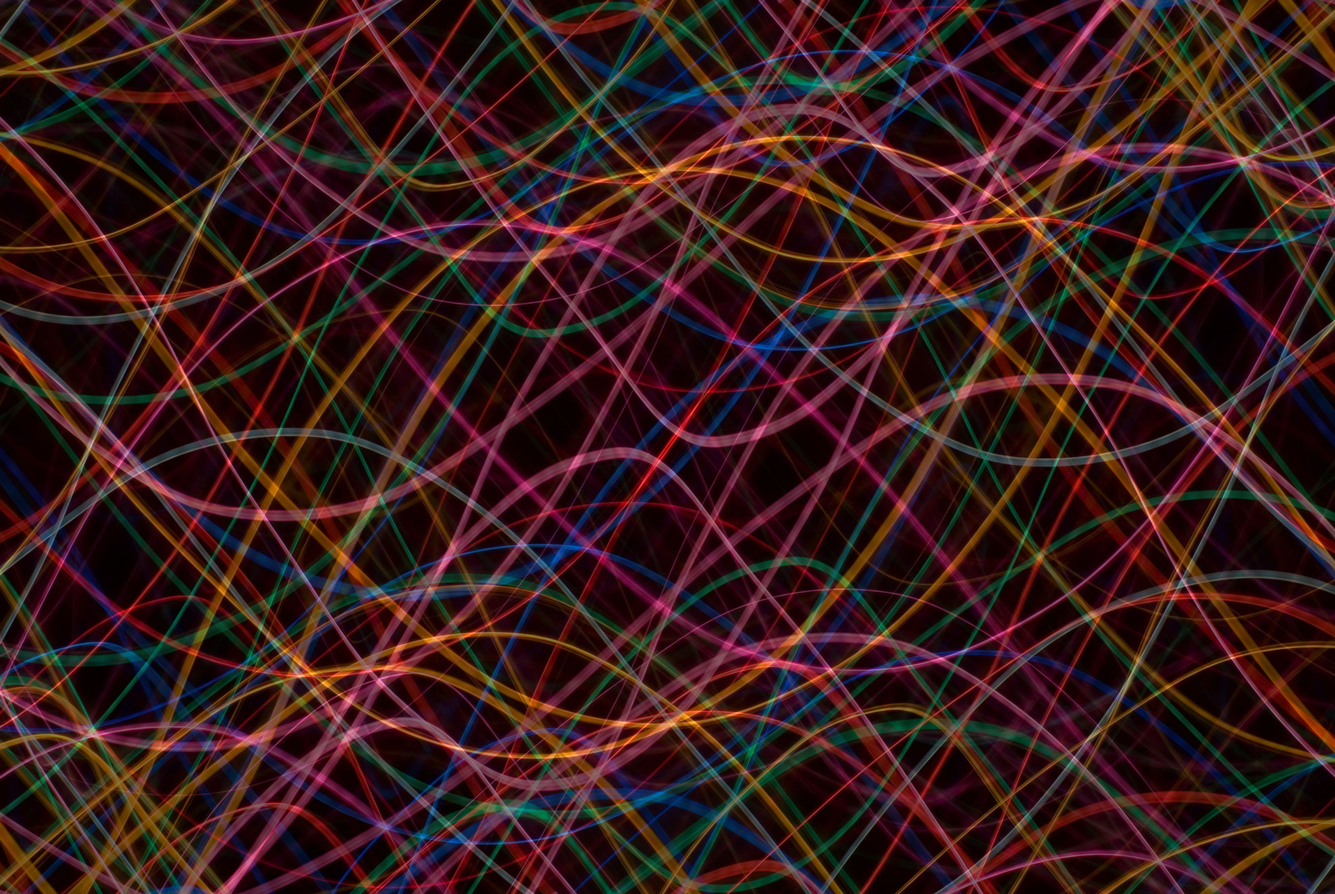
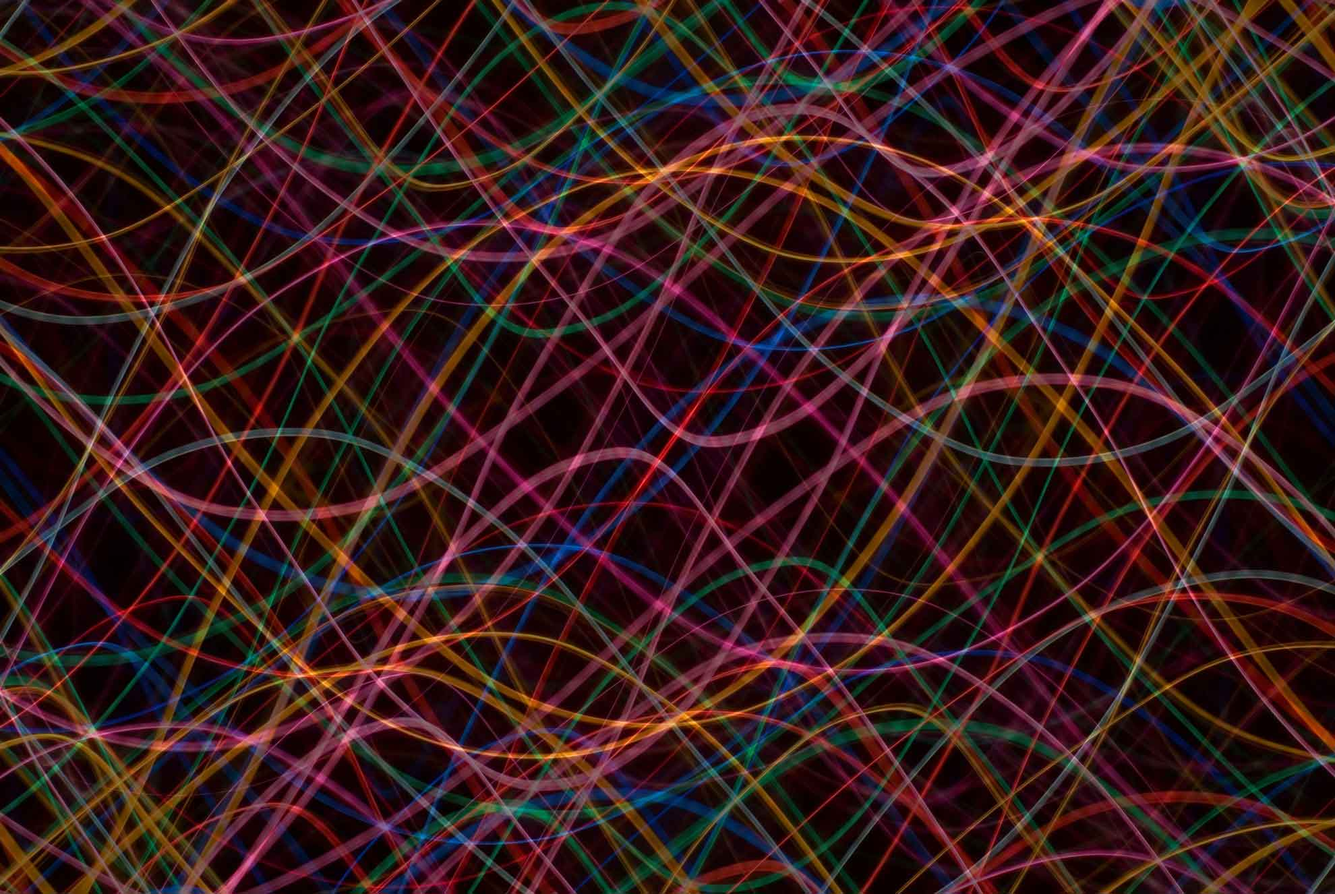
homepage done

diff --git a/src/app/home/home.component.css b/src/app/home/home.component.css
@@ -12,6 +12,18 @@ div {
   align-items: center;
 }
 
+.black {
+  background-color: black;
+  min-height: 100%;
+  min-width: 100%;
+  position: fixed;
+  top: 50%;
+  left: 50%;
+  transform: translate(-50%, -50%);
+  opacity: 0.5;
+  z-index: 0;
+}
+
 img {
   /* Set rules to fill background */
   min-height: 100%;
@@ -23,13 +35,19 @@ img {
   position: fixed;
   /* top: 0;
   left: 0; */
-  /* opacity */
-  opacity: 0.5;
-  z-index: 0;
-
   top: 50%;
   left: 50%;
   transform: translate(-50%, -50%);
+}
+.back {
+  /* opacity */
+  opacity: 0.5;
+  z-index: -3;
+}
+.front {
+  /* opacity */
+  opacity: 0.9;
+  z-index: -1;
 }
 
 h1 {
@@ -38,7 +56,7 @@ h1 {
   color: #aa000b;
   font-size: 11vw;
   text-align: center;
-  opacity: 0.7;
+  opacity: 0.8;
   text-shadow: 0 0 18px rgba(0, 0, 0, 0.6);
   z-index: 1;
   /* letter-spacing: 0.1em; */
@@ -63,8 +81,29 @@ h5 span {
   color: #aa000b;
 }
 
+/* Simple FadeIn Animation  */
+.fade-in {
+	-webkit-animation: fade-in 1s cubic-bezier(0.390, 0.575, 0.565, 1.000) both;
+	        animation: fade-in 1s cubic-bezier(0.390, 0.575, 0.565, 1.000) both;
+}
+@-webkit-keyframes fade-in {
+  0% {
+    opacity: 0;
+  }
+  100% {
+    opacity: 1;
+  }
+}
+@keyframes fade-in {
+  0% {
+    opacity: 0;
+  }
+  100% {
+    opacity: 1;
+  }
+}
 
-/* Fade In Animation  */
+/* FadeIn-Shadow Animation  */
 .fadein-shadow-animation {
  -webkit-animation: fadein-shadow-animation 3s 1.9s cubic-bezier(0.390, 0.575, 0.565, 1.000) both; /* Safari, Chrome and Opera > 12.1 */
          animation: fadein-shadow-animation 3s 1.9s cubic-bezier(0.390, 0.575, 0.565, 1.000) both;
@@ -79,7 +118,7 @@ h5 span {
   100%   {
     -webkit-transform: translateZ(0);
             transform: translateZ(0);
-    opacity: 0.7;
+    opacity: 0.8;
     text-shadow: 0 0 18px rgba(0, 0, 0, 0.6);
   }
 }
@@ -93,7 +132,7 @@ h5 span {
   to   {
     -webkit-transform: translateZ(0);
             transform: translateZ(0);
-    opacity: 0.7;
+    opacity: 0.8;
     text-shadow: 0 0 18px rgba(0, 0, 0, 0.6);
   }
 }

diff --git a/src/app/home/home.component.html b/src/app/home/home.component.html
@@ -1,12 +1,15 @@
 <!-- <h2>{{ title }}</h2> -->
 
 <div>
-  <img src="assets/images/federico-del-monte.jpg" alt="">
+  <img class="back fade-in" src="assets/images/federico-del-monte.jpg" alt="">
+  <img class="front fade-in" src="assets/images/federico-del-monte-cutout.png" alt="">
 
-    <h1 class="fadein-shadow-animation">FDM<span>_ </span>coding</h1>
+  <div class="black"></div>
 
-    <!-- <h5>
-      "a<span>_</span>junior<span>_</span>frontend<span>_</span>developer<span>_</span>with<span>_</span>an<span>_</span>eclectic<span>_</span>mind"
-    </h5> -->
+  <h1 class="fadein-shadow-animation">FDM<span>_ </span>coding</h1>
+
+  <!-- <h5>
+    "a<span>_</span>junior<span>_</span>frontend<span>_</span>developer<span>_</span>with<span>_</span>an<span>_</span>eclectic<span>_</span>mind"
+  </h5> -->
 
 </div>

diff --git a/src/app/app.component.css b/src/app/app.component.css
@@ -11,7 +11,7 @@ img {
   /* top: 0;
   left: 0; */
   /* opacity */
-  opacity: 0.1;
+  opacity: 0.2;
   z-index: -2;
 
   top: 50%;
